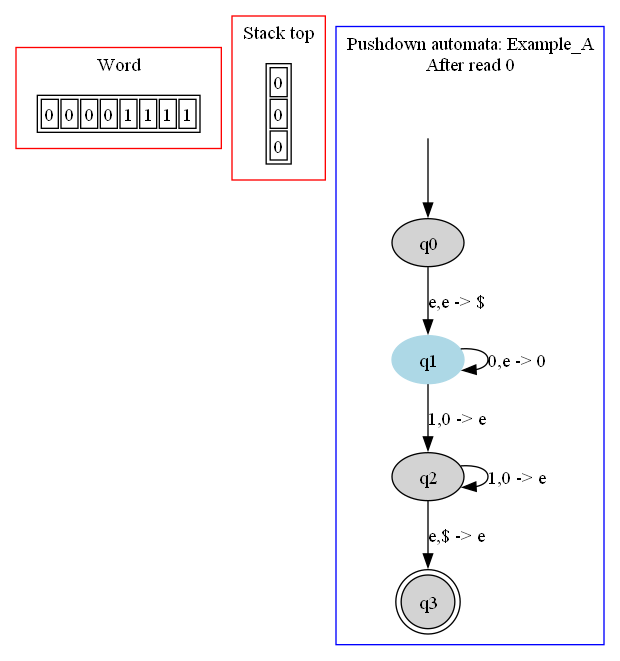
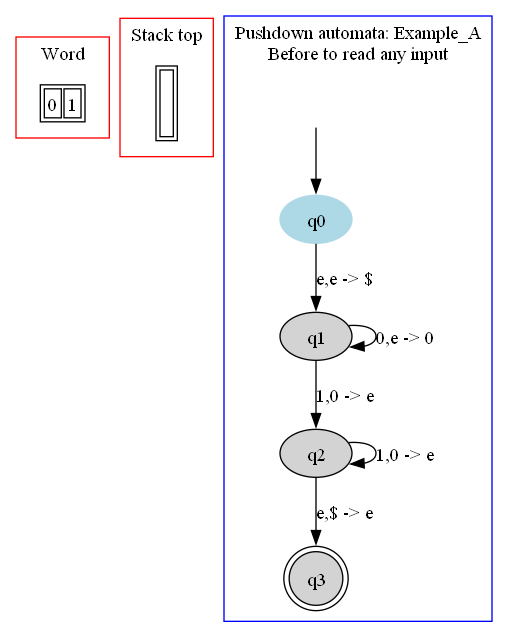
.

Changed region(s): [[0.0, 0.0, 0.9744, 0.9843]]

diff --git a/PA/automataexecution.cpp b/PA/automataexecution.cpp
@@ -3,6 +3,8 @@
 #include <algorithm>    // std::find
 #include <fstream>
 
+#include <iostream>
+
 AutomataExecution::AutomataExecution(const AutomataInstance& automataInstance):
     automataInstance(automataInstance)
 {
@@ -15,6 +17,8 @@ void AutomataExecution::reset_indexes()
     this->id_of_processed_char_input = -1; //in the state none of the input char was processed
     this->word = "";
 }
+
+
 
 bool AutomataExecution::process_word(const std::string &word)
 {
@@ -31,7 +35,65 @@ bool AutomataExecution::process_word(const std::string &word)
     )
     {
         //Get all of the possible transitions
+        std::vector<TransitionPossibility> possibleTransitions = getAvailableTransitions
+        (
+            this->current_state,
+            this->char_stack.back(),
+            word[this->id_of_processed_char_input]
+        );
+
+        std::cout << "Quant de transitions: " << possibleTransitions.size() << std::endl;
+
+        if (possibleTransitions.size() == 0)
+        {
+            //word não foi aceita
+            return false;
+        }
+        else
+        {
+            TransitionPossibility chosen;
+
+            std::cout << "PA " << std::endl;
+
+            if (possibleTransitions.size() == 1)
+            {
+                std::cout << "PB " << std::endl;
+                //só tem uma transição a fazer
+                chosen = possibleTransitions[0];
+            }
+            else
+            {
+                std::cout << "PC " << std::endl;
+                //Existe mais do que uma transição
+                //Perguntar ao usuario qual usar
+                int escolha = 0;
+                chosen = possibleTransitions[escolha];
+            }
+
+            this->current_state = chosen.destiny_state;
+
+            if (chosen.transition.topOfStackSymbolToBeReplaced == 'e' &&
+                chosen.transition.topOfStackSymbolToReplace == 'e')
+            {} //nada a fazer
+            else if (chosen.transition.topOfStackSymbolToReplace == 'e')
+            {
+                this->char_stack.pop_back();
+            }
+            else
+            {
+                this->char_stack[this->char_stack.size()-1] =
+                   chosen.transition.topOfStackSymbolToReplace;
+            }
+
+            std::string msg = "After read '"+std::string(1, chosen.transition.topOfStackSymbolToBeReplaced)+"'";
+
+            std::cout << "PD " << std::endl;
+
+            draw_automata_considering_input(msg);
+        }
     }
+
+    draw_automata_considering_input("End of processing");
 
     return true;
 }
@@ -197,6 +259,75 @@ std::vector<Transition> AutomataExecution::getTransitionsOfXStateToYState(int x,
     return this->automataInstance.structure[x][y];
 }
 
+std::vector<TransitionPossibility> AutomataExecution::getAvailableTransitions
+(
+    int currentStateParameter,
+    char topOfStack,
+    char inputToBeProcessed
+)
+{
+    std::vector<std::vector<Transition>> transitionsLeavingCurentState =
+            this->automataInstance.structure[currentStateParameter];
+
+    std::vector<TransitionPossibility> selectedTransitions;
+
+    for(int destIndex = 0; destIndex < transitionsLeavingCurentState.size(); destIndex++)
+    {
+        auto entry = transitionsLeavingCurentState[destIndex];
+        for(int index = 0; index < entry.size(); ++index)
+        {
+            Transition transition = entry[index];
+
+            if (inputToBeProcessed == transition.inputSymbol &&
+                topOfStack == transition.topOfStackSymbolToBeReplaced)
+            {
+                selectedTransitions.push_back(
+                    TransitionPossibility(
+                        currentStateParameter,      //origin_state
+                        destIndex,                  //destiny_state,
+                        transition                  //transition
+                    )
+                );
+            }
+            else if(transition.inputSymbol == 'e' &&
+                    topOfStack == transition.topOfStackSymbolToBeReplaced)
+            {
+                selectedTransitions.push_back(
+                    TransitionPossibility(
+                        currentStateParameter,      //origin_state
+                        destIndex,                  //destiny_state,
+                        transition                  //transition
+                    )
+                );
+            }
+            else if (inputToBeProcessed == transition.inputSymbol &&
+                     transition.topOfStackSymbolToBeReplaced == 'e')
+            {
+                selectedTransitions.push_back(
+                    TransitionPossibility(
+                        currentStateParameter,      //origin_state
+                        destIndex,                  //destiny_state,
+                        transition                  //transition
+                    )
+                );
+            }
+            else if (transition.inputSymbol == 'e' &&
+                     transition.topOfStackSymbolToBeReplaced == 'e')
+            {
+                selectedTransitions.push_back(
+                    TransitionPossibility(
+                        currentStateParameter,      //origin_state
+                        destIndex,                  //destiny_state,
+                        transition                  //transition
+                    )
+                );
+            }
+        }
+    }
+
+    return selectedTransitions;
+}
+
 std::string AutomataExecution::produce_content_of_draw_considering_input
 (
     const std::string &message,
@@ -204,6 +335,8 @@ std::string AutomataExecution::produce_content_of_draw_considering_input
 )
 {
     std::string content = "digraph G {\n";
+
+    std::cout << "x1 " << std::endl;
 
     content += "\tsubgraph cluster_0 {\n";
     content += "\t\tnode [shape=plaintext];\n";
@@ -225,6 +358,8 @@ std::string AutomataExecution::produce_content_of_draw_considering_input
         }
     }
 
+    std::cout << "x2 " << std::endl;
+
     content += "</TR>\n";
     content += "</TABLE>>];\n";
     content += "label = \"Word\";\n";
@@ -236,12 +371,18 @@ std::string AutomataExecution::produce_content_of_draw_considering_input
     content += "\t\tnode [shape=plaintext];\n";
     content += "\n";
 
+    std::cout << "x3 " << std::endl;
 
-    if (this->char_stack.size() > 0)
+    int stack_len = this->char_stack.length();
+    if (stack_len > 0)
     {
+        std::cout << " aqui" << std::endl;
+        std::cout << " tamanho: " << stack_len << std::endl;
         content += "struct2 [label=<<TABLE>\n";
-        for (int index = this->char_stack.size() - 1; index > -1; index--)
+        for (int index = stack_len - 1; index > -1; index--)
         {
+            std::cout << " teste " << std::endl;
+
             content += "<TR>\n";
             content += "<TD>\n";
             content += this->char_stack[index];
@@ -249,6 +390,8 @@ std::string AutomataExecution::produce_content_of_draw_considering_input
             content += "</TR>\n";
         }
         content += "</TABLE>>];\n";
+
+        std::cout << " aqui2" << std::endl;
     }
     else
     {

diff --git a/PA/automataexecution.h b/PA/automataexecution.h
@@ -2,6 +2,7 @@
 #define AUTOMATAEXECUTION_H
 
 #include "automatainstance.h"
+#include "transitionpossibility.h"
 
 class AutomataExecution
 {
@@ -19,11 +20,11 @@ public:
 private:
     int current_state = -1; //Must be initialized with the initial state of the machine
     int id_of_processed_char_input = -1; //in the state none of the input char was processed
-    std::string char_stack; //Inserts and removes in the end
+    std::string char_stack = ""; //Inserts and removes in the end
 
     AutomataInstance automataInstance;
 
-    std::string word;
+    std::string word = "";
 
     void reset_indexes();
 
@@ -49,6 +50,13 @@ private:
     std::string produce_content_of_draw();
 
     std::vector<Transition> getTransitionsOfXStateToYState(int x, int y);
+
+    std::vector<TransitionPossibility> getAvailableTransitions
+    (
+        int currentStateParameter,
+        char topOfStack,
+        char inputToBeProcessed
+    );
 
     std::string produce_content_of_draw_considering_input
     (

diff --git a/PA/transitionpossibility.h b/PA/transitionpossibility.h
@@ -1,0 +1,28 @@
+#ifndef TRANSITIONPOSSIBILITY_H
+#define TRANSITIONPOSSIBILITY_H
+
+#include <transition.h>
+
+struct TransitionPossibility
+{
+    TransitionPossibility():
+        transition(Transition(' ',' ',' '))
+    {}
+
+    TransitionPossibility
+    (
+        int origin_state,
+        int destiny_state,
+        Transition transition
+    ): transition(transition)
+    {
+        this->origin_state = origin_state;
+        this->destiny_state = destiny_state;
+    }
+
+    int origin_state;
+    int destiny_state;
+    Transition transition;
+};
+
+#endif // TRANSITIONPOSSIBILITY_H

diff --git a/PA/main.cpp b/PA/main.cpp
@@ -11,8 +11,8 @@ int main()
     AutomataExecution automataExecution(PushdownAutomataSamples::get_structure_of_sample_1());
     automataExecution.draw_automata();
 
-    //automataExecution.process_word("01");
-    automataExecution.test1_remove_later("00001111");
+    automataExecution.process_word("01");
+    //automataExecution.test1_remove_later("00001111");
 
     return 0;
 }
